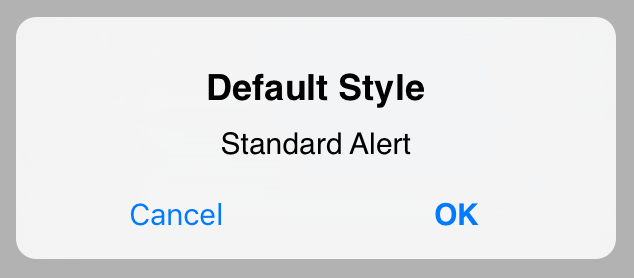
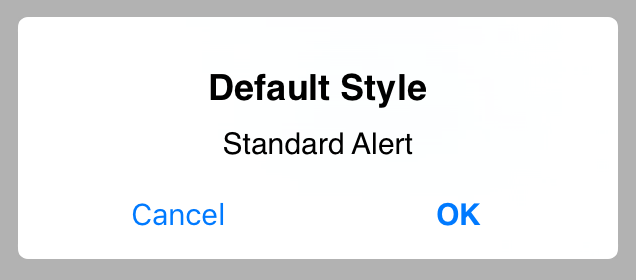
transparent background before applying visual effect

diff --git a/Classes/JLAlertView.swift b/Classes/JLAlertView.swift
@@ -55,6 +55,7 @@ public class JLAlertView: UIViewController {
     private let imageView = UIImageView()
 
     private let visualEffectView = UIVisualEffectView(effect: UIBlurEffect(style: .Light))
+    private var visualEffectBackgroundLayer = CAShapeLayer()
 
     var buttons = [UIButton]()
     var textFields = [UITextField]()
@@ -67,7 +68,6 @@ public class JLAlertView: UIViewController {
         self.message = message
 
         self.view.frame = UIScreen.mainScreen().bounds
-        self.view.backgroundColor = UIColor(red:0, green:0, blue:0, alpha:kBakcgroundTansperancy)
         self.view.addGestureRecognizer(UITapGestureRecognizer(target: self, action: #selector(dismiss)))
         self.view.translatesAutoresizingMaskIntoConstraints = false
     }
@@ -277,10 +277,26 @@ public class JLAlertView: UIViewController {
         scale = min(scale, 1.2)
         contentView.transform = CGAffineTransformMakeScale(scale, scale);
         visualEffectView.removeFromSuperview()
+        visualEffectBackgroundLayer.removeFromSuperlayer()
+
+        view.backgroundColor = UIColor(red:0, green:0, blue:0, alpha:self.kBakcgroundTansperancy)
+
         UIView.animateWithDuration(kAnimationDuration, animations: {
             backgroundWindow.alpha = 1
             self.contentView.transform = CGAffineTransformIdentity
             }) { (complete) in
+
+                let wholePath = UIBezierPath(rect: self.view.bounds)
+                let transparentPath = UIBezierPath(roundedRect: self.contentView.frame, cornerRadius: self.kBorderCornerRadius)
+                wholePath.appendPath(transparentPath)
+                wholePath.usesEvenOddFillRule = true
+
+                self.visualEffectBackgroundLayer = CAShapeLayer()
+                self.visualEffectBackgroundLayer.path = wholePath.CGPath
+                self.visualEffectBackgroundLayer.fillRule = kCAFillRuleEvenOdd
+                self.visualEffectBackgroundLayer.fillColor = UIColor(red:0, green:0, blue:0, alpha:self.kBakcgroundTansperancy).CGColor
+                self.view.layer.insertSublayer(self.visualEffectBackgroundLayer, atIndex: 0)
+
                 self.view.insertSubview(self.visualEffectView, atIndex: 0)
 
                 self.visualEffectView.translatesAutoresizingMaskIntoConstraints = false
@@ -291,6 +307,8 @@ public class JLAlertView: UIViewController {
 
                 self.visualEffectView.layer.cornerRadius = self.kBorderCornerRadius
                 self.visualEffectView.clipsToBounds = true
+
+                self.view.backgroundColor = nil
         }
     }
 
